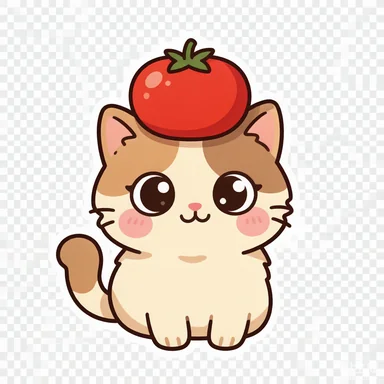
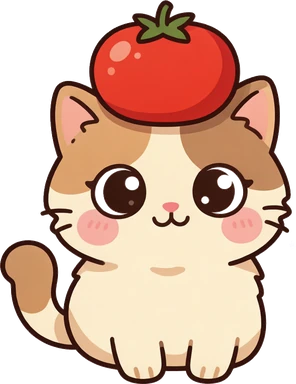
fix: 修复猫图白底方块 + 重新设计应用图标
问题：网页用的猫图是 RGB 带白底的版本，贴在纸感卡片上会显出灰色方块。
根因：项目里一直存在透明版本（cat-images-transparent/，alpha 0-255），
      但 HTML 引用的是 cat-images/ 下的不透明版本。

修复：改用透明源图重新生成 cat-images/*.webp（RGBA，alpha 0-255），
      并按 alpha 裁掉四周留白，让吉祥物在图内占满。

图标：弃用原「粉色圆形爪印」，改为项目吉祥物「戴礼帽的奶油猫」
      + 群青渐变底（accent #3B6CB7 系）+ 对角线柔光 + 底部压暗 + 落影。
      光影一律用线性渐变，避免 radial 半径覆盖不到画布角落时出现圆弧边界。
      已通过 maskable 安全区自检（吉祥物最远角 192.6px < 安全半径 204.8px）。

顺带用新版界面刷新了 README 的三张预览图。

diff --git a/tools/make-icons.py b/tools/make-icons.py
@@ -1,0 +1,132 @@
+"""生成应用图标（PWA / iOS / favicon）
+用法：python tools/make-icons.py
+设计：项目吉祥物「戴礼帽的奶油猫」+ 群青渐变底 + 对角线柔光 + 底部压暗
+光影一律用线性渐变（不用 radial），否则半径覆盖不到画布角落时会出现圆弧边界。
+"""
+from PIL import Image, ImageDraw, ImageFilter
+import os
+import shutil
+
+ROOT = os.path.dirname(os.path.dirname(os.path.abspath(__file__)))
+os.chdir(ROOT)
+
+S = 512
+# 与项目默认配色一致：accent #3B6CB7 / accent-deep #2E548F
+BG_TOP = (0x55, 0x86, 0xCD)
+BG_BOT = (0x1C, 0x37, 0x63)
+CAT_SRC = 'cat-images-transparent/hero.png'
+CAT_H = 0.62      # 吉祥物高度占画布比例（maskable 安全区：内容需落在中央 80% 圆内）
+CAT_CY = 0.51     # 吉祥物中心所在高度比例
+
+
+def vgrad(size, c1, c2):
+    """竖向色彩渐变：1px 宽色带放大，避免逐像素填 512x512"""
+    w, h = size
+    g = Image.new('RGB', (1, h))
+    px = g.load()
+    for y in range(h):
+        t = y / (h - 1)
+        px[0, y] = tuple(round(c1[i] + (c2[i] - c1[i]) * t) for i in range(3))
+    return g.resize((w, h), Image.BILINEAR)
+
+
+def diag_light(size, strength, stop=0.62):
+    """左上到右下的对角线柔光，到 stop 处平滑衰减为 0"""
+    N = 256
+    lay = Image.new('L', (N, N), 0)
+    px = lay.load()
+    for y in range(N):
+        for x in range(N):
+            t = (x + y) / (2 * (N - 1))
+            v = max(0.0, 1.0 - t / stop)
+            px[x, y] = int(min(255, (v ** 1.6) * strength))
+    return lay.resize(size, Image.LANCZOS)
+
+
+def bottom_shade(size, strength, start=0.55):
+    """从 start 高度往下逐渐压暗，制造纵深"""
+    N = 256
+    lay = Image.new('L', (N, N), 0)
+    px = lay.load()
+    for y in range(N):
+        t = y / (N - 1)
+        v = max(0.0, (t - start) / (1 - start))
+        for x in range(N):
+            px[x, y] = int(min(255, (v ** 1.4) * strength))
+    return lay.resize(size, Image.LANCZOS)
+
+
+def build():
+    base = vgrad((S, S), BG_TOP, BG_BOT).convert('RGBA')
+
+    # 对角线柔光 + 底部压暗（都是线性渐变，边缘不带圆弧）
+    base = Image.composite(Image.new('RGBA', (S, S), (255, 255, 255, 255)), base,
+                           diag_light((S, S), 58))
+    base = Image.composite(Image.new('RGBA', (S, S), (8, 18, 38, 255)), base,
+                           bottom_shade((S, S), 76))
+
+    # 吉祥物：按 alpha 裁边 → 缩放到画布高度的 62%
+    cat = Image.open(CAT_SRC).convert('RGBA')
+    bb = cat.getchannel('A').getbbox()
+    if bb:
+        cat = cat.crop(bb)
+    target_h = int(S * CAT_H)
+    cat = cat.resize((max(1, round(cat.width * target_h / cat.height)), target_h), Image.LANCZOS)
+
+    cx = (S - cat.width) // 2
+    cy = int(S * CAT_CY) - cat.height // 2
+
+    # 猫下方的柔和投影，让它「站」在底上
+    sh = Image.new('L', (S, S), 0)
+    d = ImageDraw.Draw(sh)
+    rx, ry = cat.width * 0.40, S * 0.030
+    scx, scy = S // 2, cy + cat.height - int(S * 0.010)
+    d.ellipse([scx - rx, scy - ry, scx + rx, scy + ry], fill=125)
+    sh = sh.filter(ImageFilter.GaussianBlur(S * 0.030))
+    base = Image.composite(Image.new('RGBA', (S, S), (8, 18, 38, 255)), base, sh)
+
+    base.alpha_composite(cat, (cx, cy))
+    return base, (cx, cy, cat.width, cat.height)
+
+
+def safe_zone_ok(w, h, cx, cy):
+    """maskable 安全区自检：吉祥物四角需落在中央 80% 圆内"""
+    R, c = 0.4 * S, S / 2
+    worst = max((((x - c) ** 2 + (y - c) ** 2) ** 0.5)
+                for x in (cx, cx + w) for y in (cy, cy + h))
+    return worst, R
+
+
+if __name__ == '__main__':
+    icon, (cx, cy, w, h) = build()
+    worst, R = safe_zone_ok(w, h, cx, cy)
+
+    os.makedirs('_archive/old-icons', exist_ok=True)
+    print('  吉祥物区域: %dx%d @(%d,%d)' % (w, h, cx, cy))
+    print('  maskable 安全区自检: 最远角 %.1fpx / 安全半径 %.1fpx → %s'
+          % (worst, R, '✅ 通过' if worst <= R else '⚠ 超出，需缩小吉祥物'))
+    print()
+
+    targets = [
+        ('deploy-site/icon-512.png', 512),
+        ('deploy-site/icon-192.png', 192),
+        ('deploy-site/icon-180.png', 180),
+        ('deploy-site/favicon-32.png', 32),
+        ('icon-180.png', 180),          # 根目录副本，供 life-workspace.html 单独打开时使用
+        ('favicon-32.png', 32),
+    ]
+    for path, size in targets:
+        if os.path.exists(path):
+            shutil.move(path, os.path.join('_archive/old-icons', os.path.basename(path) + '.bak'))
+        icon.resize((size, size), Image.LANCZOS).save(path, 'PNG', optimize=True)
+        print('  %-30s %3dpx  %5.1fKB' % (path, size, os.path.getsize(path) / 1024))
+
+    # 人工核对用的预览图（不入仓库）
+    icon.resize((256, 256), Image.LANCZOS).save('_archive/icon-preview.png')
+    # 模拟 Android 圆形遮罩效果，检查被裁后是否还好看
+    mask = Image.new('L', (S, S), 0)
+    ImageDraw.Draw(mask).ellipse([S * 0.06, S * 0.06, S * 0.94, S * 0.94], fill=255)
+    circle = Image.new('RGBA', (S, S), (0, 0, 0, 0))
+    circle.paste(icon, (0, 0), mask)
+    circle.resize((256, 256), Image.LANCZOS).save('_archive/icon-preview-masked.png')
+    print('\n预览: _archive/icon-preview.png / _archive/icon-preview-masked.png')
